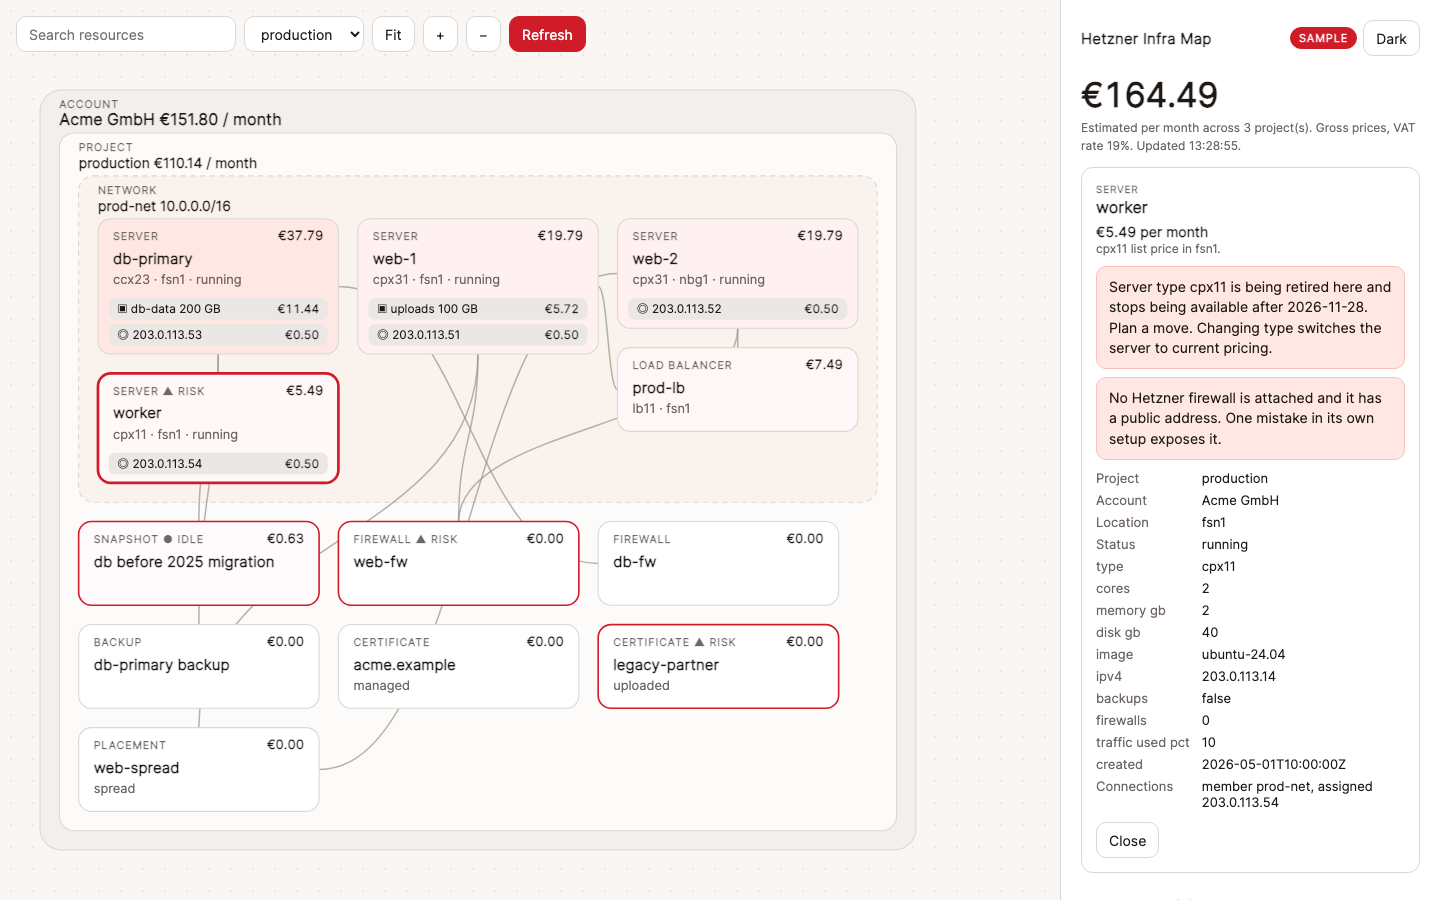
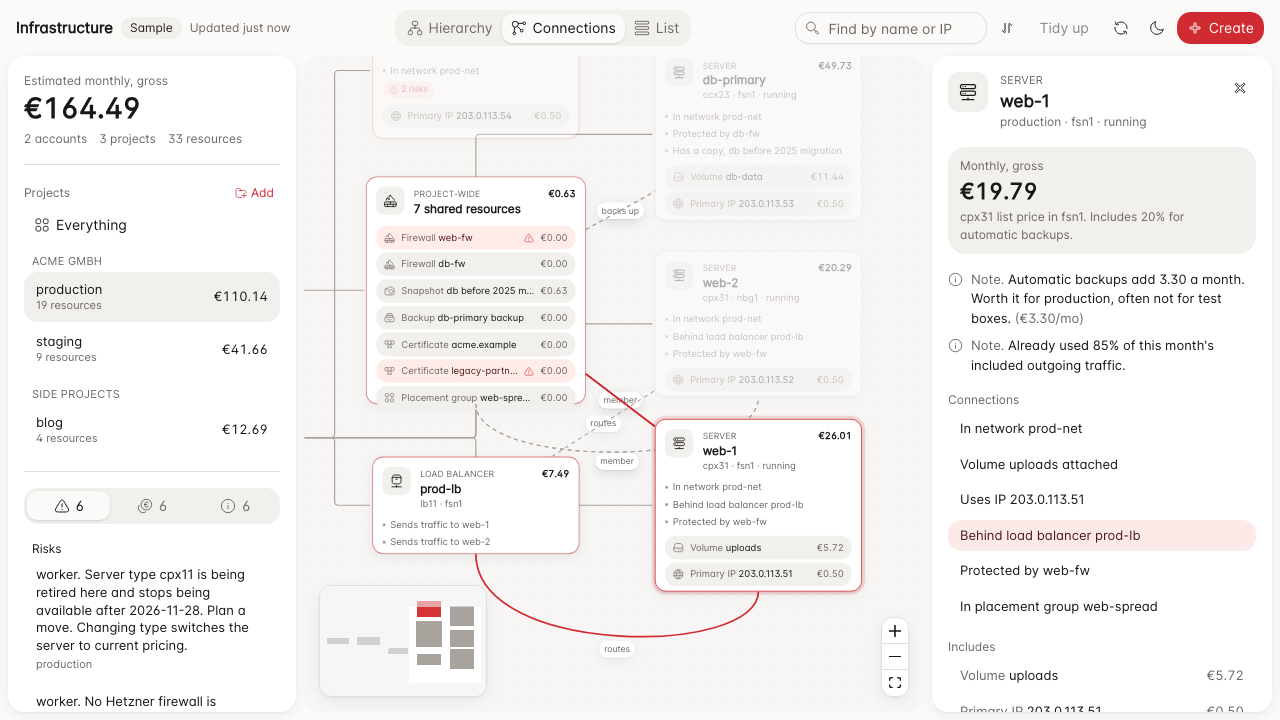
docs(map): describe the new map, creates, deletes and project connect

diff --git a/README.md b/README.md
@@ -144,14 +144,17 @@ What you get:
 - Where the money goes. Monthly cost per account, per project, per resource type, and the top cost drivers.
 - Risks to fix. Server types Hetzner is retiring, servers with no firewall, SSH or database ports open to the whole internet, and certificates about to expire.
 - What you are paying for and not using. Powered off servers, unattached volumes, unassigned IPs, and snapshots of deleted servers, each with the monthly amount tied to it. One click takes you to it on the canvas.
-- How it all connects. Servers inside their private network, volumes and IPs on their server, and lines for firewalls, load balancers, floating IPs, and backups.
-- Several projects and accounts at once. A Hetzner token covers one project, so add one variable per extra project, for example `HETZNER_CLOUD_TOKEN_STAGING`, and group them with `HETZNER_ACCOUNT_STAGING=Acme GmbH`.
+- A layout that stays readable. Cards are laid out automatically, left to right or top to bottom with one click, and no line ever runs through a card. Drag cards where you want them, the map remembers, and Tidy up puts everything back.
+- Three ways to look. Hierarchy shows what sits inside what. Connections also places linked resources next to each other, so you can see which firewall protects which server and which load balancer sends traffic where. List is a plain outline that works well on a phone. Every card also says its links in words, for example "Protected by web-fw".
+- How many projects you have, and what each costs. The side panel lists every account and project with its resource count and monthly total. Click one to show only that project.
+- Create from the map. Pick Create, choose what you want, and you see the real Hetzner price before anything happens. Billed creates stay off until you start the map with `HETZNER_MCP_ALLOW_BILLED=1`, and even then you tick a box that states the monthly amount. Deleting asks you to type the exact name and tells you what else is affected.
+- Add a project from the map. Hetzner has no API to create projects, so the map walks you to the Console, you paste the project's token, it is checked against Hetzner, then saved on this computer only (owner-only file permissions) and never sent back to the page. Tokens from environment variables work too, for example `HETZNER_CLOUD_TOKEN_STAGING`, grouped with `HETZNER_ACCOUNT_STAGING=Acme GmbH`.
 
 Before you create a server, ask "where can I get a 4 core server right now". The `find_capacity` tool lists what Hetzner can actually sell you today, by location and price, so a create does not fail with resource unavailable.
 
 Your assistant can open it too. Ask it to "map my Hetzner infrastructure" and the `infra_map` tool returns the cost summary, the savings list, and the canvas link, or a Mermaid diagram with `mermaid: true`.
 
-It is read-only and local. It only makes GET requests, listens on 127.0.0.1 only, refuses requests addressed to any other host name, and never sends your token to the page. Port 43390 is unassigned in the IANA registry; set `HETZNER_MCP_MAP_PORT` to change it, and it moves to the next free port if that one is busy. Costs are estimates from Hetzner list prices, not your invoice, because Hetzner has no Cloud billing API.
+It is local and guarded. It listens on 127.0.0.1 only, refuses requests addressed to any other host name or sent from another website, and never sends your token to the page. Every create and delete goes through the same cost, read-only (`HETZNER_MCP_READONLY=1`), and destructive guards as the MCP tools, and the sample map cannot change anything. Port 43390 is unassigned in the IANA registry; set `HETZNER_MCP_MAP_PORT` to change it, and it moves to the next free port if that one is busy. Costs are estimates from Hetzner list prices, not your invoice, because Hetzner has no Cloud billing API.
 
 ![Infra map, light](https://raw.githubusercontent.com/mjmirza/hetzner-mcp/master/assets/map/infra-map-light.png)
 ![Infra map, dark](https://raw.githubusercontent.com/mjmirza/hetzner-mcp/master/assets/map/infra-map-dark.png)

diff --git a/CHANGELOG.md b/CHANGELOG.md
@@ -24,9 +24,17 @@ are included here, and to @jooola for reporting #83 and #84.
   the Sentinel scanner.
 
 ### Added
-- `hetzner-mcp map`, an interactive canvas of every configured account, project, and
+- `hetzner-mcp map`, an interactive map of every configured account, project, and
   resource with estimated monthly cost, top cost drivers, and idle resources still being
-  billed. Local and read-only on http://127.0.0.1:43390, with a labelled `--demo` estate.
+  billed. Local on http://127.0.0.1:43390, with a labelled `--demo` estate. Built with
+  React Flow and an automatic layout that switches between rows and columns, so no line
+  crosses a card. Hierarchy, Connections, and List views, drag with remembered positions,
+  project counts and costs in the side panel, and plain-language links on every card.
+- Create and delete from the map. Price first from the Hetzner pricing API, billed creates
+  only with `HETZNER_MCP_ALLOW_BILLED=1` plus a stated-amount checkbox, deletes need the
+  exact name. Same guards as the MCP tools, re-checked on the server for every request.
+- Connect another project from the map. The token is verified live, then saved in
+  `~/.config/hetzner-mcp/projects.json` with owner-only permissions, never sent to the page.
 - `infra_map` MCP tool returning the cost summary, findings, the canvas URL, and an
   optional Mermaid diagram. Multiple projects via `HETZNER_CLOUD_TOKEN_<NAME>`.
 - `test/safety-guards.ts`, `test/actions.ts`, and `test/map.ts` offline suites, wired into
